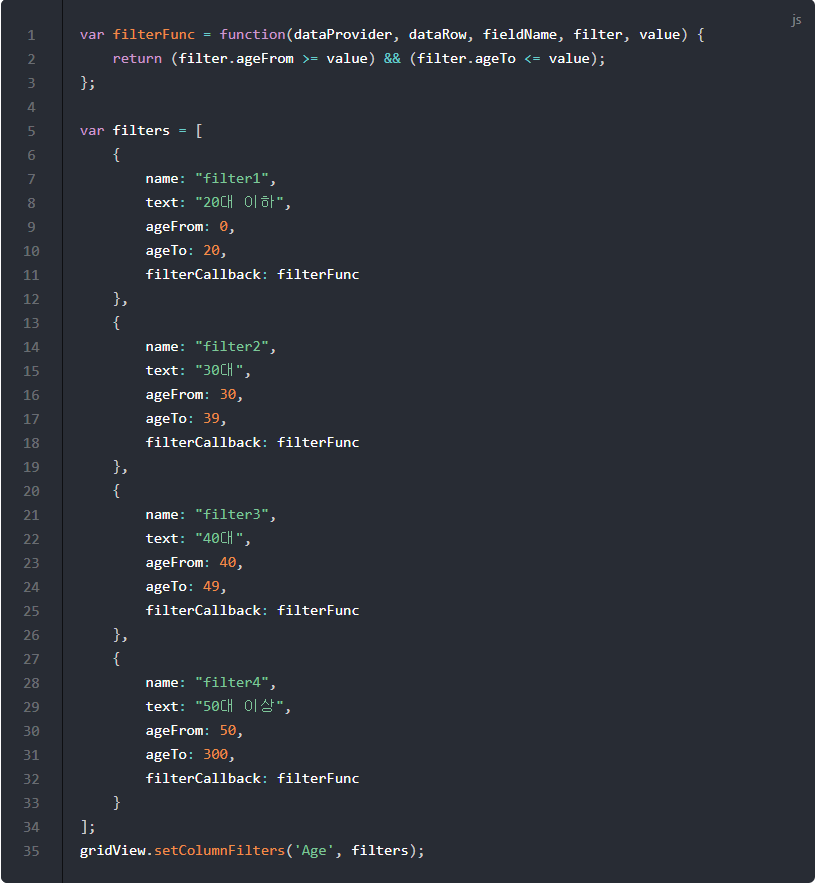
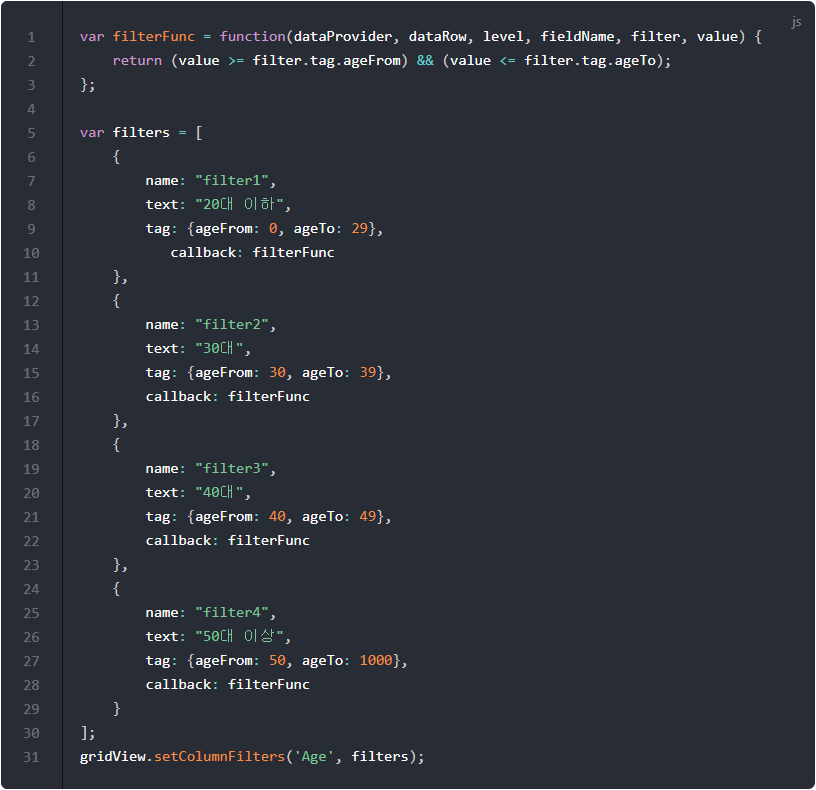
펑션 필터 오류 수정

diff --git a/vuepress/.vuepress/public/samples/realgrid2/part-1/06/step-05.html b/vuepress/.vuepress/public/samples/realgrid2/part-1/06/step-05.html
@@ -45,36 +45,32 @@
     });
 
     var filterFunc = function(dataProvider, dataRow, level, fieldName, filter, value) {
-        return (filter.ageFrom >= value) && (filter.ageTo <= value);
+        return (value >= filter.tag.ageFrom) && (value <= filter.tag.ageTo);
     };
 
     var filters = [
         {
             name: "filter1",
             text: "20대 이하",
-            ageFrom: 0,
-            ageTo: 20,
+            tag: {ageFrom: 0, ageTo: 29},
             callback: filterFunc
         },
         {
             name: "filter2",
             text: "30대",
-            ageFrom: 30,
-            ageTo: 39,
+            tag: {ageFrom: 30, ageTo: 39},
             callback: filterFunc
         },
         {
             name: "filter3",
             text: "40대",
-            ageFrom: 40,
-            ageTo: 49,
+            tag: {ageFrom: 40, ageTo: 49},
             callback: filterFunc
         },
         {
             name: "filter4",
             text: "50대 이상",
-            ageFrom: 50,
-            ageTo: 300,
+            tag: {ageFrom: 50, ageTo: 1000},
             callback: filterFunc
         }
     ];

diff --git a/vuepress/part-1/06/README.md b/vuepress/part-1/06/README.md
@@ -270,49 +270,44 @@ gridView.toggleAllColumnFilters("KorCountry");
 
 ``` js
 var filterFunc = function(dataProvider, dataRow, level, fieldName, filter, value) {
-	return (filter.ageFrom >= value) && (filter.ageTo <= value);
+    return (value >= filter.tag.ageFrom) && (value <= filter.tag.ageTo);
 };
 
 var filters = [
-	{
-		name: "filter1",
-		text: "20대 이하",
-		ageFrom: 0,
-		ageTo: 20,
-		callback: filterFunc
-	},
-	{
-		name: "filter2",
-		text: "30대",
-		ageFrom: 30,
-		ageTo: 39,
-		callback: filterFunc
-	},
-	{
-		name: "filter3",
-		text: "40대",
-		ageFrom: 40,
-		ageTo: 49,
-		callback: filterFunc
-	},
-	{
-		name: "filter4",
-		text: "50대 이상",
-		ageFrom: 50,
-		ageTo: 300,
-		callback: filterFunc
-	}
+    {
+        name: "filter1",
+        text: "20대 이하",
+        tag: {ageFrom: 0, ageTo: 29},
+           callback: filterFunc
+    },
+    {
+        name: "filter2",
+        text: "30대",
+        tag: {ageFrom: 30, ageTo: 39},
+        callback: filterFunc
+    },
+    {
+        name: "filter3",
+        text: "40대",
+        tag: {ageFrom: 40, ageTo: 49},
+        callback: filterFunc
+    },
+    {
+        name: "filter4",
+        text: "50대 이상",
+        tag: {ageFrom: 50, ageTo: 1000},
+        callback: filterFunc
+    }
 ];
 gridView.setColumnFilters('Age', filters);
 ```
 * 1-3: 필터에 사용할 함수를 정의하는 부분입니다. 아래 두 조건이 맞으면 true를 리턴해서 해당 데이터가 선택되어 그리드에 표시됩니다.
-  * filter.ageFrom >= value
-    * 현재 데이터가 filter의 속성 중 ageFrom보다 크거나 같으면 true가 됩니다.
-  * filter.ageTo <= value
-    * 현재 데이터가 filter의 속성 중 ageTo보다 작거나 같으면 false가 리턴됩니다.
+  * value >= filter.tag.ageFrom
+    * 현재 데이터가 filter의 속성 중 tag.ageFrom보다 크거나 같으면 true가 됩니다.
+  * value <= filter.tag.ageTo
+    * 현재 데이터가 filter의 속성 중 tag.ageTo보다 작거나 같으면 false가 리턴됩니다.
   * 위의 두 조건이 모드 만족하면 해당 나이 사이에 있는 사용자가 되어서 함수는 true를 리턴합니다. 따라서 선택한 연령에 해당하는 데이터만 표시됩니다.
-* 5-24: 필터를 정의하는 부분입니다.
-* 9, 16, 23, 30: 필터에 ageFrom 속성을 추가해서 어느 나이 이상을 표시할 것인지 설정합니다.
-* 10, 17, 24, 31: 필터에 ageTo 속성을 추가해서 어느 나이 이하를 표시할 것인지 설정합니다.
-* 11, 18, 25, 32: 필터가 선택되었을 때 데이터를 추려내는 조건을 계산할 함수를 지정합니다.
+* 5-30: 필터를 정의하는 부분입니다.
+* 9, 15, 21, 27: 필터의 tag 속성에 {ageFrom, ageTo} 객체를 대입하여 연령대별로 데이터를 거를 수 있도록 기준값을 정합니다.
+* 10, 16, 22, 28: 필터가 선택되었을 때 데이터를 추려내는 조건을 계산할 함수를 지정합니다.
 

diff --git a/part-1/06/README.md b/part-1/06/README.md
@@ -154,13 +154,13 @@ activateColumnFilters() 메소드를 사용하면 선택된 필터가 선택된 
 
 ![](./code-014.png)
 * 1-3: 필터에 사용할 함수를 정의하는 부분입니다. 아래 두 조건이 맞으면 true를 리턴해서 해당 데이터가 선택되어 그리드에 표시됩니다.
-  * filter.ageFrom >= value
-    * 현재 데이터가 filter의 속성 중 ageFrom보다 크거나 같으면 true가 됩니다.
-  * filter.ageTo <= value
-    * 현재 데이터가 filter의 속성 중 ageTo보다 작거나 같으면 false가 리턴됩니다.
+  * value >= filter.tag.ageFrom
+    * 현재 데이터가 filter의 속성 중 tag.ageFrom보다 크거나 같으면 true가 됩니다.
+  * value <= filter.tag.ageTo
+    * 현재 데이터가 filter의 속성 중 tag.ageTo보다 작거나 같으면 false가 리턴됩니다.
   * 위의 두 조건이 모드 만족하면 해당 나이 사이에 있는 사용자가 되어서 함수는 true를 리턴합니다. 따라서 선택한 연령에 해당하는 데이터만 표시됩니다.
-* 5-24: 필터를 정의하는 부분입니다.
-* 9, 16, 23, 30: 필터에 ageFrom 속성을 추가해서 어느 나이 이상을 표시할 것인지 설정합니다.
-* 10, 17, 24, 31: 필터에 ageTo 속성을 추가해서 어느 나이 이하를 표시할 것인지 설정합니다.
-* 11, 18, 25, 32: 필터가 선택되었을 때 데이터를 추려내는 조건을 계산할 함수를 지정합니다.
+* 5-30: 필터를 정의하는 부분입니다.
+* 9, 15, 21, 27: 필터의 tag 속성에 {ageFrom, ageTo} 객체를 대입하여 연령대별로 데이터를 거를 수 있도록 기준값을 정합니다.
+* 10, 16, 22, 28: 필터가 선택되었을 때 데이터를 추려내는 조건을 계산할 함수를 지정합니다.
+
 
